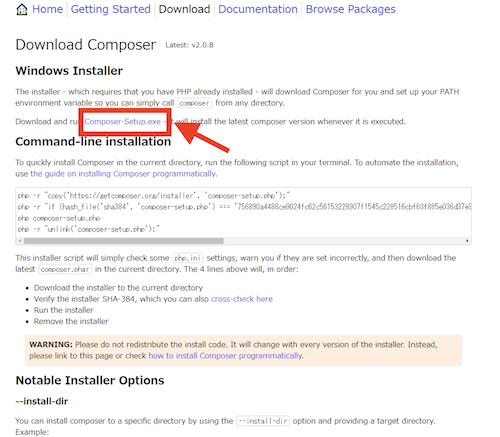
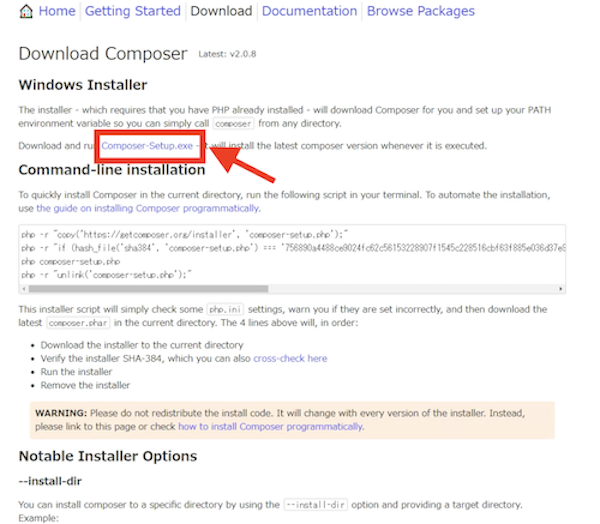
Update Blog “2021-01-26-【初心者向け！】windowsでのcomposerインストール方法”

diff --git a/content/blog/2021-01-26-【初心者向け！】windowsでのcomposerインストール方法.md b/content/blog/2021-01-26-【初心者向け！】windowsでのcomposerインストール方法.md
@@ -3,11 +3,19 @@ title: 【初心者向け！】WindowsでのComposerインストール方法
 date: 2021-01-26T01:50:25.455Z
 description: Composerインストール方法
 ---
-![](/img/composer1.png)
+パッケージ管理ツールの王道、[Composer](https://getcomposer.org/)のインストール方法をご紹介します٩( 'ω' )و
 
+まずは[ダウンロードページ](https://getcomposer.org/download/)に行って、Composer-Setup.exeをクリックしてインストーラーをダウンロードします。
 
+![composer_windows_installer](/img/composer1.png "composer_setup_1")
 
-![](/img/composer2.png?w=300 "composer_install_02")
+ダウンロードが終わったら、インストーラーを開きます。
+
+Developer Modeというチェックボックスがありますが、これをチェックするとアンインストーラーがパッケージに含まれません。
+
+特に理由がない場合はチェックなしで進んでOKです。Nextをクリックします。
+
+![composer_installation_options](/img/composer2.png "composer_setup_02")
 
 ![](/img/composer3.png?w=300 "composer_install_03")
 
